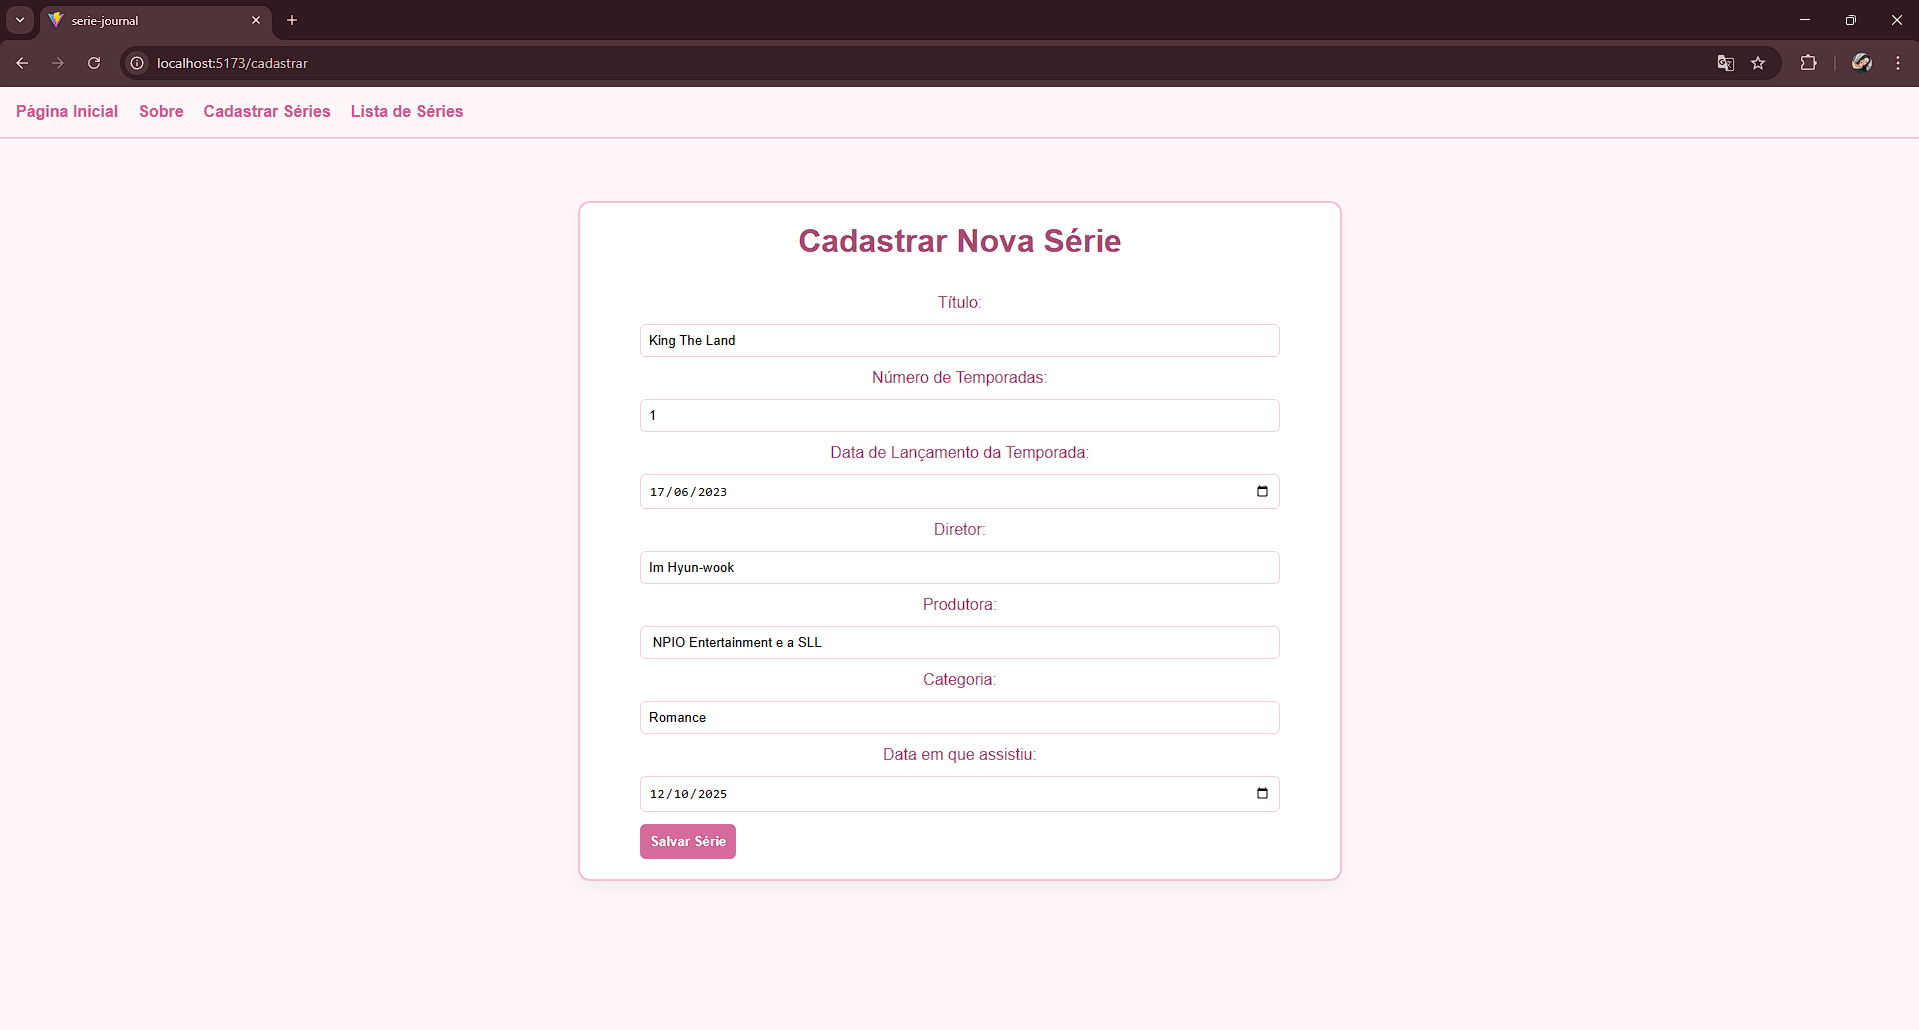
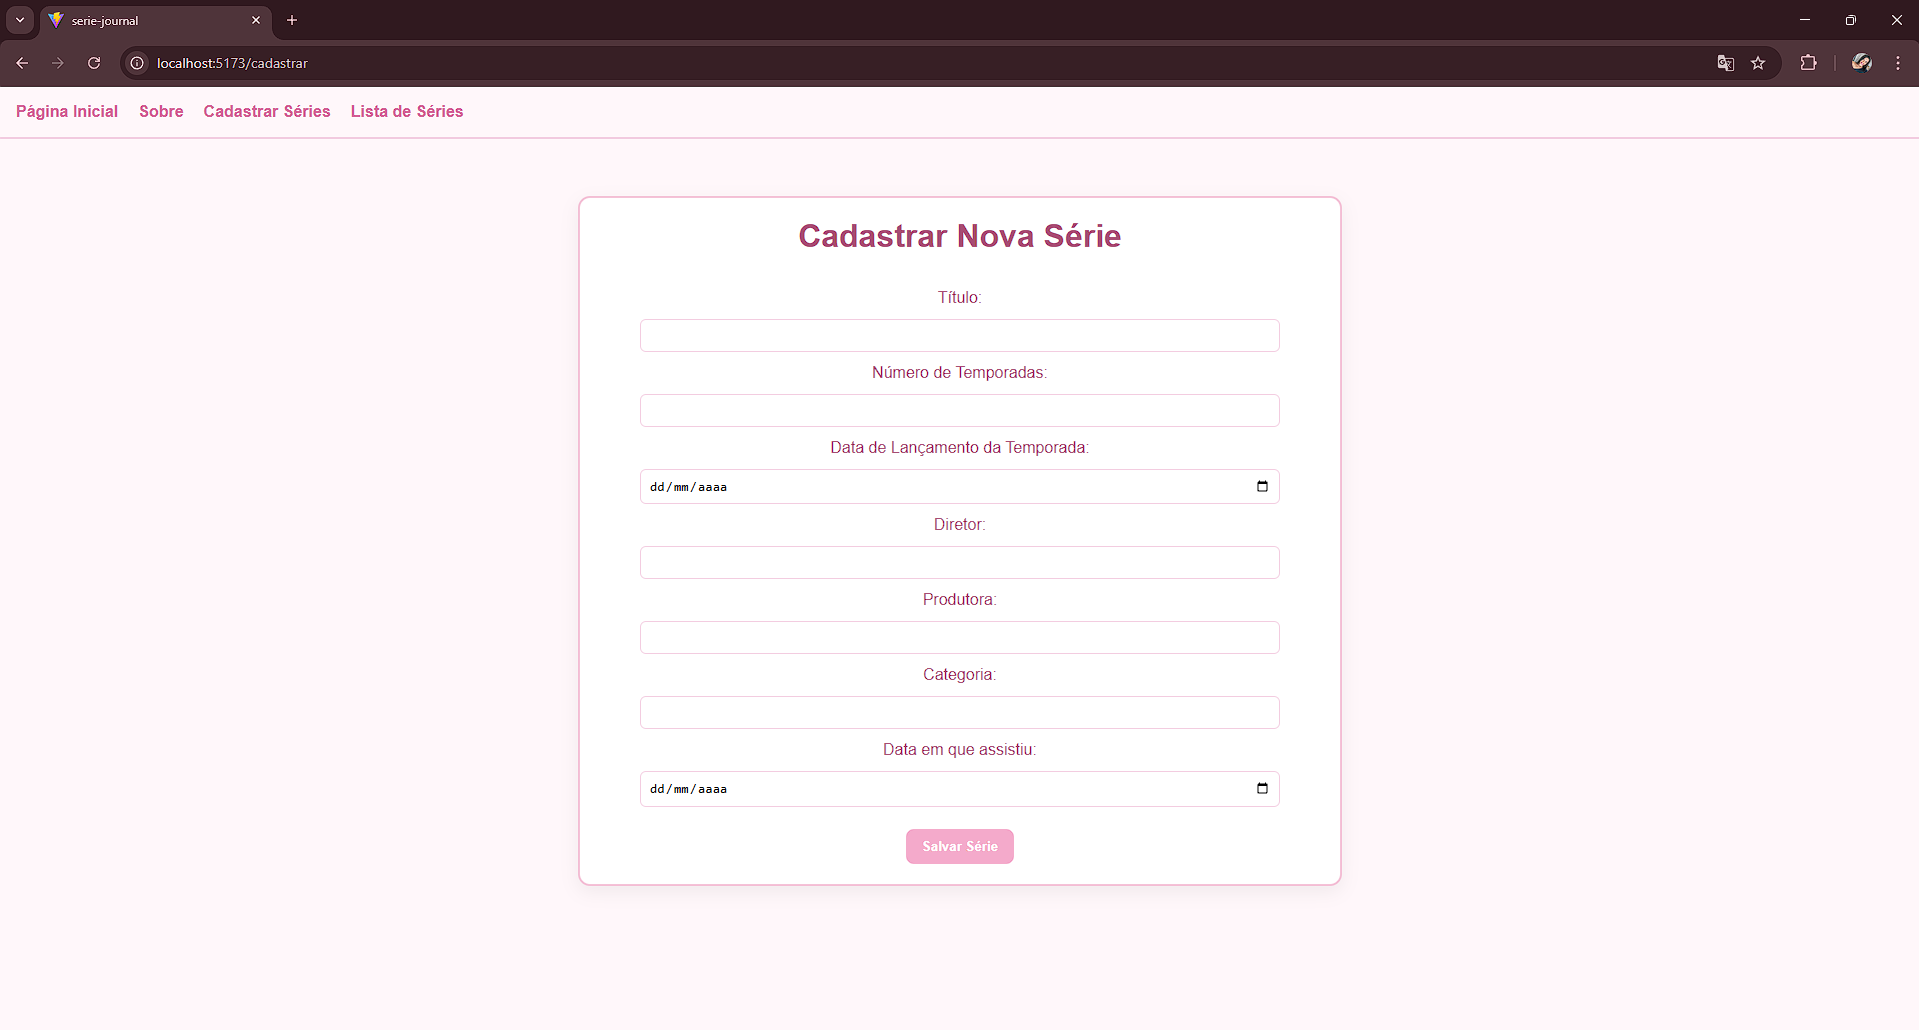
Fase 1 - Serie Journal

diff --git a/src/components/SerieForm/SerieForm.jsx b/src/components/SerieForm/SerieForm.jsx
@@ -1,7 +1,6 @@
 import { useState, useEffect } from "react";
 import "./SerieForm.css";
 
-
 // Formulário controlado para cadastrar ou editar uma série.
 // - No modo cadastro: cria uma nova série e adiciona ao estado (setSeries).
 // - No modo edição (editingSerie): preenche os campos e atualiza o item existente.
@@ -15,6 +14,7 @@ export default function SerieForm({ setSeries, editingSerie, setEditingSerie }) 
   const [produtora, setProdutora] = useState("");
   const [categoria, setCategoria] = useState("");
   const [dataAssistiu, setDataAssistiu] = useState("");
+  const [mensagem, setMensagem] = useState("");
 
   useEffect(() => {
     if (editingSerie) {
@@ -54,8 +54,10 @@ export default function SerieForm({ setSeries, editingSerie, setEditingSerie }) 
     if (editingSerie) {
       setSeries((prev) => prev.map((s) => (s.id === editingSerie.id ? payload : s)));
       setEditingSerie(null);
+      setMensagem("Série atualizada com sucesso!");
     } else {
       setSeries((prev) => [payload, ...prev]);
+      setMensagem("Série salva com sucesso!");
     }
 
     // limpa o formulário
@@ -66,49 +68,105 @@ export default function SerieForm({ setSeries, editingSerie, setEditingSerie }) 
     setProdutora("");
     setCategoria("");
     setDataAssistiu("");
+
+    // faz a mensagem sumir após 3 segundos
+    setTimeout(() => setMensagem(""), 3000);
   }
 
   return (
-    <form onSubmit={handleSubmit} className="form-container">
-      <label>Título:</label>
-      <input type="text" value={titulo} onChange={(e) => setTitulo(e.target.value)} />
+    <div>
+      {mensagem && (
+        <div
+          style={{
+            background: "#ffe6f0",
+            color: "#b30059",
+            padding: "10px",
+            borderRadius: "8px",
+            textAlign: "center",
+            fontWeight: "600",
+            marginBottom: "10px",
+            boxShadow: "0 2px 6px rgba(0,0,0,0.05)",
+          }}
+        >
+          {mensagem}
+        </div>
+      )}
 
-      <label>Número de Temporadas:</label>
-      <input type="number" value={temporadas} onChange={(e) => setTemporadas(e.target.value)} />
+      <form onSubmit={handleSubmit} className="form-container">
+        <label>Título:</label>
+        <input
+          type="text"
+          value={titulo}
+          onChange={(e) => setTitulo(e.target.value)}
+          required
+        />
 
-      <label>Data de Lançamento da Temporada:</label>
-      <input type="date" value={dataLancamento} onChange={(e) => setDataLancamento(e.target.value)} />
+        <label>Número de Temporadas:</label>
+        <input
+          type="number"
+          value={temporadas}
+          onChange={(e) => setTemporadas(e.target.value)}
+          required
+        />
 
-      <label>Diretor:</label>
-      <input type="text" value={diretor} onChange={(e) => setDiretor(e.target.value)} />
+        <label>Data de Lançamento da Temporada:</label>
+        <input
+          type="date"
+          value={dataLancamento}
+          onChange={(e) => setDataLancamento(e.target.value)}
+        />
 
-      <label>Produtora:</label>
-      <input type="text" value={produtora} onChange={(e) => setProdutora(e.target.value)} />
+        <label>Diretor:</label>
+        <input
+          type="text"
+          value={diretor}
+          onChange={(e) => setDiretor(e.target.value)}
+          required
+        />
 
-      <label>Categoria:</label>
-      <input type="text" value={categoria} onChange={(e) => setCategoria(e.target.value)} />
+        <label>Produtora:</label>
+        <input
+          type="text"
+          value={produtora}
+          onChange={(e) => setProdutora(e.target.value)}
+        />
 
-      <label>Data em que assistiu:</label>
-      <input type="date" value={dataAssistiu} onChange={(e) => setDataAssistiu(e.target.value)} />
+        <label>Categoria:</label>
+        <input
+          type="text"
+          value={categoria}
+          onChange={(e) => setCategoria(e.target.value)}
+        />
 
-      <div style={{ display: "flex", gap: 10 }}>
-        <button type="submit" className="btn-submit">
-          {editingSerie ? "Atualizar Série" : "Salvar Série"}
-        </button>
-        {editingSerie && (
-          <button
-            type="button"
-            className="btn"
-            onClick={() => {
-              setEditingSerie(null);
-            }}
-          >
-            Cancelar
+        <label>Data em que assistiu:</label>
+        <input
+          type="date"
+          value={dataAssistiu}
+          onChange={(e) => setDataAssistiu(e.target.value)}
+        />
+
+        <div
+          style={{
+            display: "flex",
+            justifyContent: "center",
+            gap: 10,
+            marginTop: "10px",
+          }}
+        >
+          <button type="submit" className="btn-submit">
+            {editingSerie ? "Atualizar Série" : "Salvar Série"}
           </button>
-        )}
-      </div>
-    </form>
+          {editingSerie && (
+            <button
+              type="button"
+              className="btn"
+              onClick={() => setEditingSerie(null)}
+            >
+              Cancelar
+            </button>
+          )}
+        </div>
+      </form>
+    </div>
   );
 }
-
-

diff --git a/src/pages/Home.jsx b/src/pages/Home.jsx
@@ -3,8 +3,8 @@ export default function Home() {
   return (
     <div className="page-center">
       <h1>Página Inicial</h1>
-      <h2>Bem-vindo ao projeto CRUD de séries!</h2>
-      <p>Gerencie suas séries assistidas de uma forma fácil e intuitiva.</p>
+      <h2>Bem-vindo ao Seriando!</h2>
+      <p>Aqui é o seu cantinho pra guardar todas as séries que moram no coração. Vamos começar a montar o seu catálogo?</p>
     </div>
   );
 }

diff --git a/src/components/SerieForm/SerieForm.css b/src/components/SerieForm/SerieForm.css
@@ -31,3 +31,19 @@ button {
 button:hover {
   background-color: #ff84b7;
 }
+
+.btn-submit {
+  background-color: #f4aacb;
+  color: white;
+  padding: 10px 16px;
+  border: none;
+  border-radius: 8px;
+  font-weight: bold;
+  cursor: pointer;
+  transition: all 0.2s ease;
+}
+
+.btn-submit:hover {
+  background-color: #ff84b7;
+  transform: translateY(-1px);
+}
